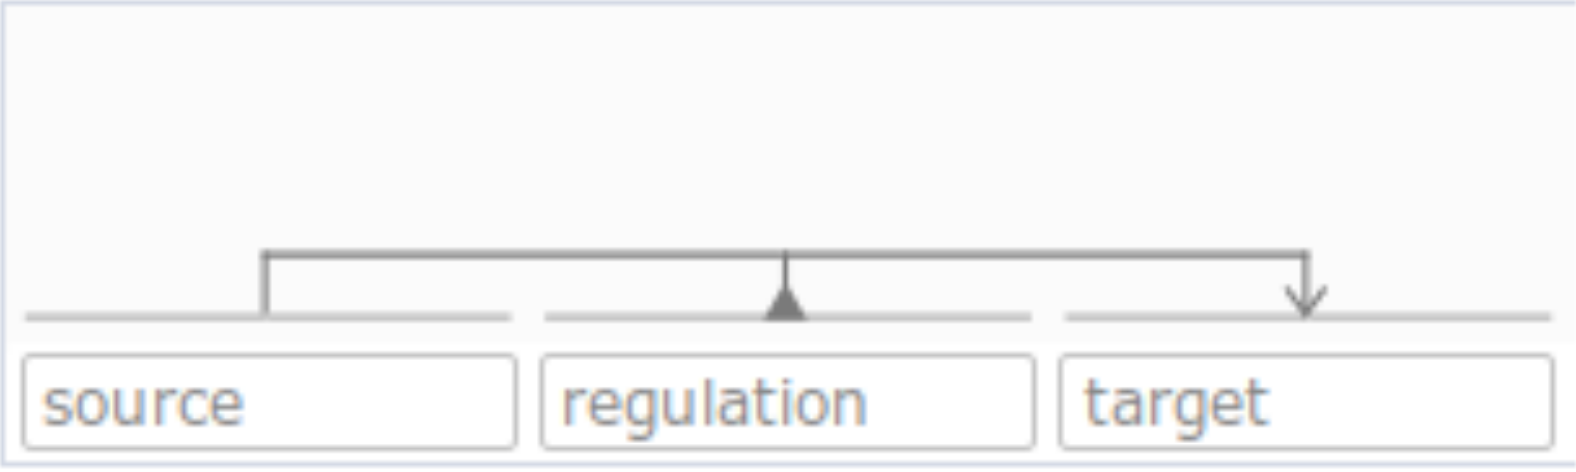
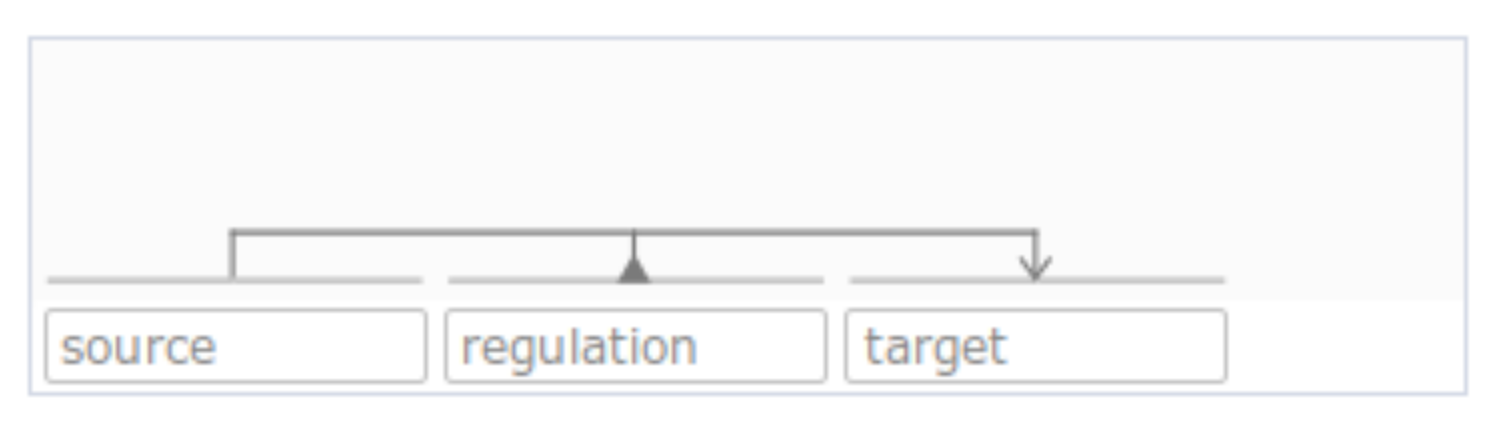
updated images with HTML

Changed region(s): [[0.0, 0.0, 1.0, 1.0]]

diff --git a/documentation.md b/documentation.md
@@ -24,11 +24,11 @@ permalink: /documentation
 > * a VSM-connector: grouping of VSM-terms with semantics (subject-object-predicate),
 > * a VSM-sentence: association of VSM-terms connected with VSM-connectors.
 >
-> ![VSM box](https://github.com/vtoure/causalBuilder/raw/master/images/VSM.png "Example of a VSM-sentence with VSM-terms, VSM-connectors.")
+> <img src="https://github.com/vtoure/causalBuilder/raw/master/images/VSM.png" alt="Example of a VSM-sentence with VSM-terms, VSM-connecto" width="400"/>
 >
 > The causalBuilder is built on top of the VSM framework to facilitate the annotation of causal statements with contextual information. CausalBuilder generates on-demand templates of VSM sentences to be filled in by the user.
 >
-> ![Minimum statement VSM](https://github.com/vtoure/causalBuilder/raw/master/images/minimum_statement_VSM.png)
+> <img src="https://github.com/vtoure/causalBuilder/raw/master/images/minimum_statement_VSM.png" alt="Minimum causal statement with VSM" width="400"/>
 >
 > To know more about VSM, check the [VSM introduction](http://scicura.org/vsm/intro.html).
 
@@ -41,7 +41,8 @@ Go to the [causalBuilder home page](https://vtoure.github.io/causalBuilder) and 
 #### 1.1 Adding a term from a checkbox
 Click on the desired checkbox to select annotation to be added in the causal statement. For instance, if you would like to annotate the biological type of a source entity, select the *biological type* checkbox under *Source Entity*.
 
-![Checkbox](https://github.com/vtoure/causalBuilder/raw/master/images/checkbox.pdf "The Biological type of source entity checkbox is checked.")
+<img src="https://github.com/vtoure/causalBuilder/raw/master/images/checkbox.png" alt="The Biological type of source entity checkbox is checked" width="600"/>
+
 
 
 #### 1.2 Adding a biological state
